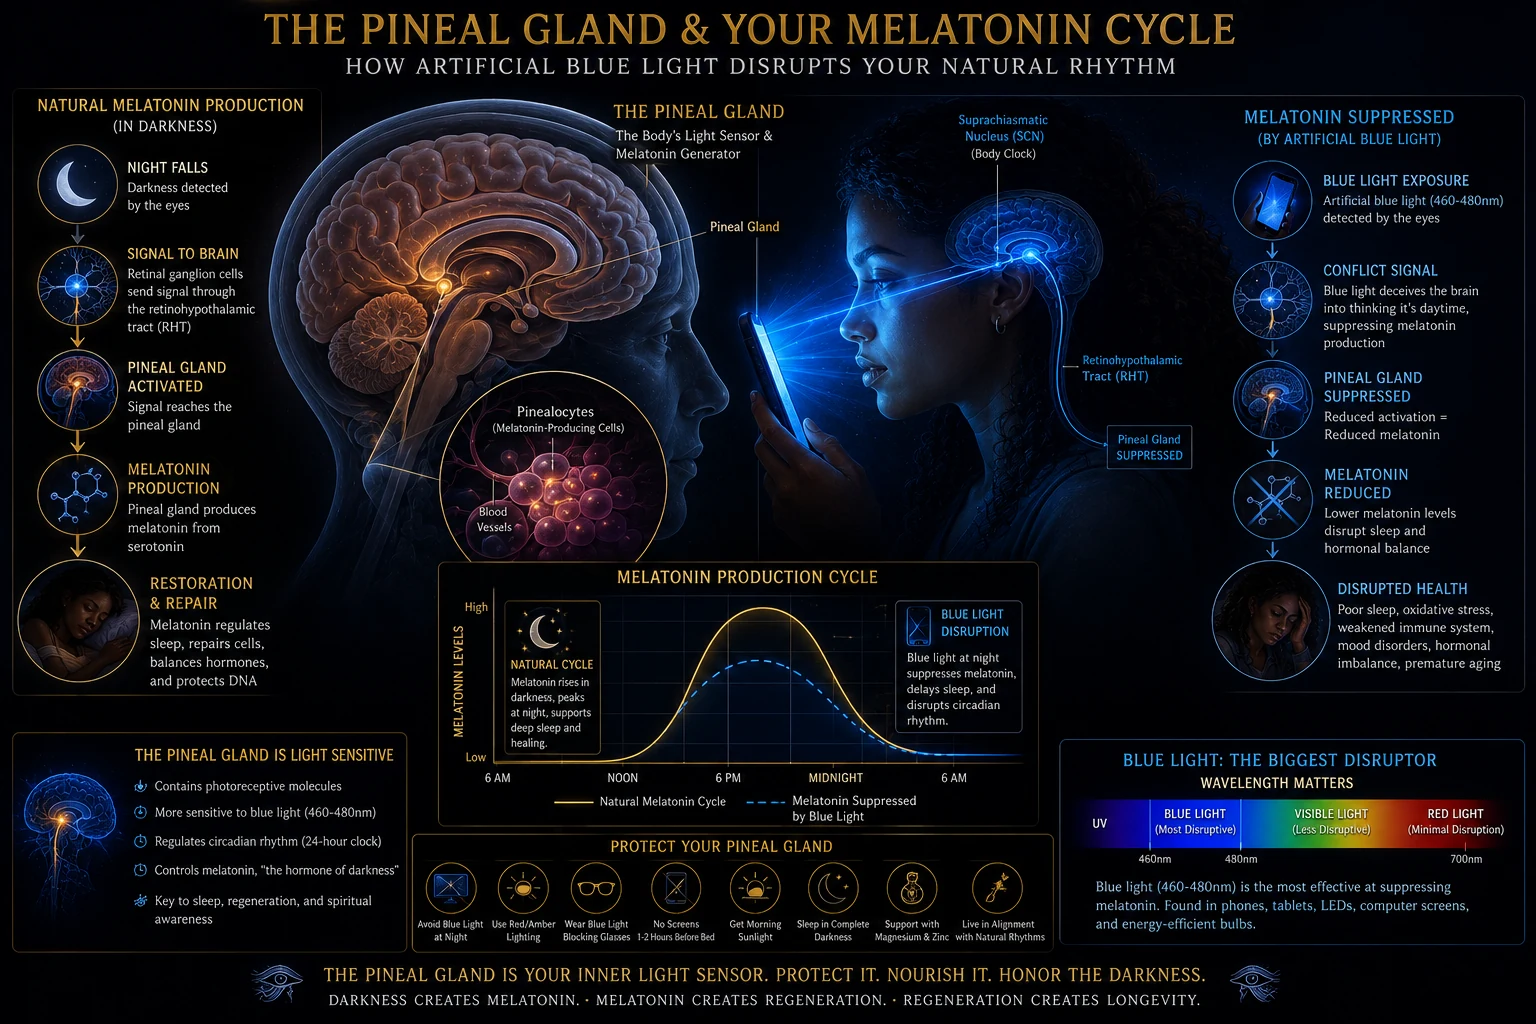
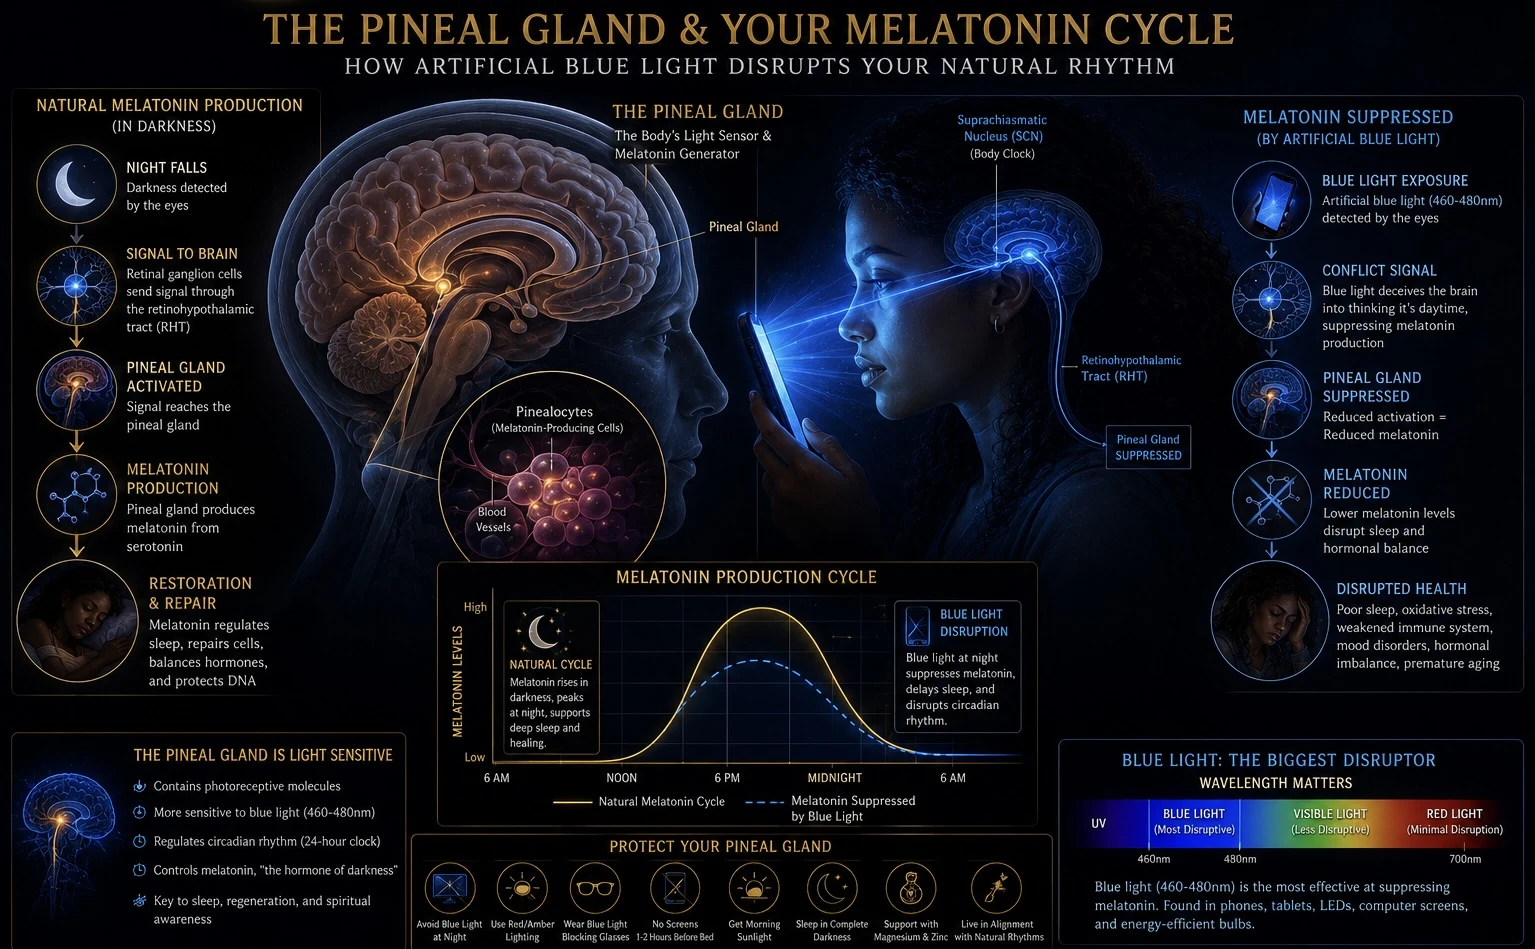
ACR Search + Search2: replace blue-light-eye-path and pineal-melatonin body-tab images
Swaps in two user-supplied replacement graphics for the "body" tab's blue
light / pineal gland section in both Search and Search2 (identical
images in both, kept in sync). New images checked for Egyptian/Horus
iconography before this commit - none present in either. Bumps both
service worker cache versions (acr-search-v299->v300,
acr-search2-v1->v2) since these images are cache-first for returning
visitors and would otherwise never update.

Claude-Session: https://claude.ai/code/session_01Va5JF8uZUpf6AMv7K1dUt6

Changed region(s): [[0.0, 0.0, 0.9798, 1.0]]

diff --git a/Search/sw.js b/Search/sw.js
@@ -1,4 +1,4 @@
-var CACHE = 'acr-search-v299';
+var CACHE = 'acr-search-v300';
 var FILES = [
   './',
   './index.html',

diff --git a/Search2/sw.js b/Search2/sw.js
@@ -1,4 +1,4 @@
-var CACHE = 'acr-search2-v1';
+var CACHE = 'acr-search2-v2';
 var FILES = [
   './',
   './index.html',
